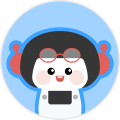
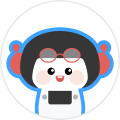
feat: pot user profile image (#107)

Changed region(s): [[0.0, 0.0, 1.0, 0.95]]

diff --git a/lib/app/modules/chat/presentation/widgets/pot_profile_image.dart b/lib/app/modules/chat/presentation/widgets/pot_profile_image.dart
@@ -1,0 +1,56 @@
+import 'package:collection/collection.dart';
+import 'package:flutter/material.dart';
+import 'package:pot_g/app/modules/chat/domain/entities/pot_info_entity.dart';
+import 'package:pot_g/app/modules/chat/domain/entities/pot_user_entity.dart';
+import 'package:pot_g/app/values/palette.dart';
+import 'package:pot_g/gen/assets.gen.dart';
+
+class PotProfileImage extends StatelessWidget {
+  const PotProfileImage({super.key, required this.user, required this.pot});
+
+  final PotUserEntity user;
+  final PotInfoEntity pot;
+
+  Widget getImageByIndex(int index, bool inPot) {
+    final images = [
+      (Assets.images.jennie, Color(0xFFD3C5FC)),
+      (Assets.images.tree, index > 3 ? Color(0xFFFFFBAD) : Color(0xFFF8F8F8)),
+      (Assets.images.geni, Color(0xFFFFE0EC)),
+      (Assets.images.us, Color(0xFFA2D2FF)),
+    ];
+    final sample = images[index % images.length];
+    final image =
+        inPot
+            ? sample.$1.image()
+            : sample.$1.image(
+              colorBlendMode: BlendMode.color,
+              color: Palette.grey,
+            );
+    final hsl = HSLColor.fromColor(sample.$2);
+    final color =
+        hsl
+            .withHue(
+              (hsl.hue + [0, 120, 240][(index ~/ images.length) % 3]) % 360,
+            )
+            .toColor();
+    return Container(color: color, child: image);
+  }
+
+  @override
+  Widget build(BuildContext context) {
+    final index =
+        pot.usersInfo.users.indexed
+            .firstWhereOrNull((e) => e.$2.id == user.id)
+            ?.$1;
+    if (index == null) return SizedBox(width: 40, height: 40);
+    return Container(
+      width: 40,
+      height: 40,
+      decoration: BoxDecoration(
+        borderRadius: BorderRadius.circular(100),
+        border: Border.all(color: Palette.borderGrey2, width: 0.5),
+      ),
+      child: ClipOval(child: getImageByIndex(index, user.isInPot)),
+    );
+  }
+}

diff --git a/lib/app/modules/chat/presentation/widgets/chat_bubble.dart b/lib/app/modules/chat/presentation/widgets/chat_bubble.dart
@@ -1,5 +1,7 @@
 import 'package:flutter/material.dart';
-import 'package:pot_g/app/modules/user/domain/entities/user_entity.dart';
+import 'package:pot_g/app/modules/chat/domain/entities/pot_info_entity.dart';
+import 'package:pot_g/app/modules/chat/domain/entities/pot_user_entity.dart';
+import 'package:pot_g/app/modules/chat/presentation/widgets/pot_profile_image.dart';
 import 'package:pot_g/app/values/palette.dart';
 import 'package:pot_g/app/values/text_styles.dart';
 import 'package:pot_g/gen/assets.gen.dart';
@@ -10,11 +12,13 @@ class ChatBubble extends StatelessWidget {
     required this.message,
     this.user,
     this.isFirst = false,
+    required this.pot,
   });
 
   final String message;
-  final UserEntity? user;
+  final PotUserEntity? user;
   final bool isFirst;
+  final PotInfoEntity pot;
 
   @override
   Widget build(BuildContext context) {
@@ -23,7 +27,10 @@ class ChatBubble extends StatelessWidget {
       crossAxisAlignment: CrossAxisAlignment.start,
       mainAxisAlignment: isMe ? MainAxisAlignment.end : MainAxisAlignment.start,
       children: [
-        if (!isMe) isFirst ? _Avatar(user: user!) : const SizedBox(width: 40),
+        if (!isMe)
+          isFirst
+              ? PotProfileImage(user: user!, pot: pot)
+              : const SizedBox(width: 40),
         ConstrainedBox(
           constraints: BoxConstraints(maxWidth: 240),
           child: Column(
@@ -88,21 +95,6 @@ class ChatBubble extends StatelessWidget {
           ),
         ),
       ],
-    );
-  }
-}
-
-class _Avatar extends StatelessWidget {
-  const _Avatar({required this.user});
-
-  final UserEntity user;
-
-  @override
-  Widget build(BuildContext context) {
-    return Container(
-      width: 40,
-      height: 40,
-      decoration: BoxDecoration(color: Palette.grey, shape: BoxShape.circle),
     );
   }
 }

diff --git a/lib/app/modules/chat/presentation/widgets/pot_user.dart b/lib/app/modules/chat/presentation/widgets/pot_user.dart
@@ -1,9 +1,10 @@
 import 'package:flutter/material.dart';
+import 'package:pot_g/app/modules/chat/domain/entities/pot_info_entity.dart';
 import 'package:pot_g/app/modules/chat/domain/entities/pot_user_entity.dart';
+import 'package:pot_g/app/modules/chat/presentation/widgets/pot_profile_image.dart';
 import 'package:pot_g/app/modules/common/presentation/widgets/pot_button.dart';
 import 'package:pot_g/app/values/palette.dart';
 import 'package:pot_g/app/values/text_styles.dart';
-import 'package:pot_g/gen/assets.gen.dart';
 import 'package:pot_g/gen/strings.g.dart';
 
 class PotUser extends StatelessWidget {
@@ -11,36 +12,18 @@ class PotUser extends StatelessWidget {
     super.key,
     required this.user,
     this.onKick,
-    required this.profileIndex,
+    required this.pot,
   });
 
   final PotUserEntity user;
+  final PotInfoEntity pot;
   final VoidCallback? onKick;
-  final int profileIndex;
-
-  Image getImageByIndex(int index) {
-    final images = [
-      Assets.images.jennie.image(),
-      Assets.images.tree.image(),
-      Assets.images.geni.image(),
-      Assets.images.us.image(),
-    ];
-    return images[index % images.length];
-  }
 
   @override
   Widget build(BuildContext context) {
     return Row(
       children: [
-        Container(
-          width: 40,
-          height: 40,
-          decoration: BoxDecoration(
-            borderRadius: BorderRadius.circular(100),
-            border: Border.all(color: Palette.borderGrey2, width: 0.5),
-          ),
-          child: ClipOval(child: getImageByIndex(profileIndex)),
-        ),
+        PotProfileImage(user: user, pot: pot),
         SizedBox(width: 8),
         Row(
           children: [

diff --git a/lib/app/modules/chat/presentation/widgets/pot_users.dart b/lib/app/modules/chat/presentation/widgets/pot_users.dart
@@ -20,9 +20,6 @@ class PotUsers extends StatelessWidget {
     final passengers = pot.usersInfo.users.where(
       (u) => u.isInPot && u.id != meUser?.id,
     );
-    final mapUserToIndex = Map.fromEntries(
-      pot.usersInfo.users.indexed.map((e) => MapEntry(e.$2.id, e.$1)),
-    );
     return Column(
       crossAxisAlignment: CrossAxisAlignment.start,
       children: [
@@ -31,8 +28,7 @@ class PotUsers extends StatelessWidget {
           style: TextStyles.caption.copyWith(color: Palette.textGrey),
         ),
         const SizedBox(height: 8),
-        if (me != null)
-          PotUser(user: me, profileIndex: mapUserToIndex[me.id] ?? 0),
+        if (me != null) PotUser(user: me, pot: pot),
         const SizedBox(height: 20),
         Text(
           context.t.chat_room.drawer.members.passenger,
@@ -45,7 +41,7 @@ class PotUsers extends StatelessWidget {
             PotUser(
               user: e.$2,
               onKick: me?.isHost ?? false ? () {} : null,
-              profileIndex: mapUserToIndex[e.$2.id] ?? 0,
+              pot: pot,
             ),
           ],
         ),

diff --git a/lib/app/modules/chat/presentation/pages/chat_room_page.dart b/lib/app/modules/chat/presentation/pages/chat_room_page.dart
@@ -106,6 +106,7 @@ class ChatRoomPage extends StatelessWidget {
                           message: chat.message,
                           isFirst: nextChat?.user.id != chat.user.id,
                           user: isMe ? null : chat.user,
+                          pot: pot,
                         );
                       },
                       itemCount: state.chats.length,
